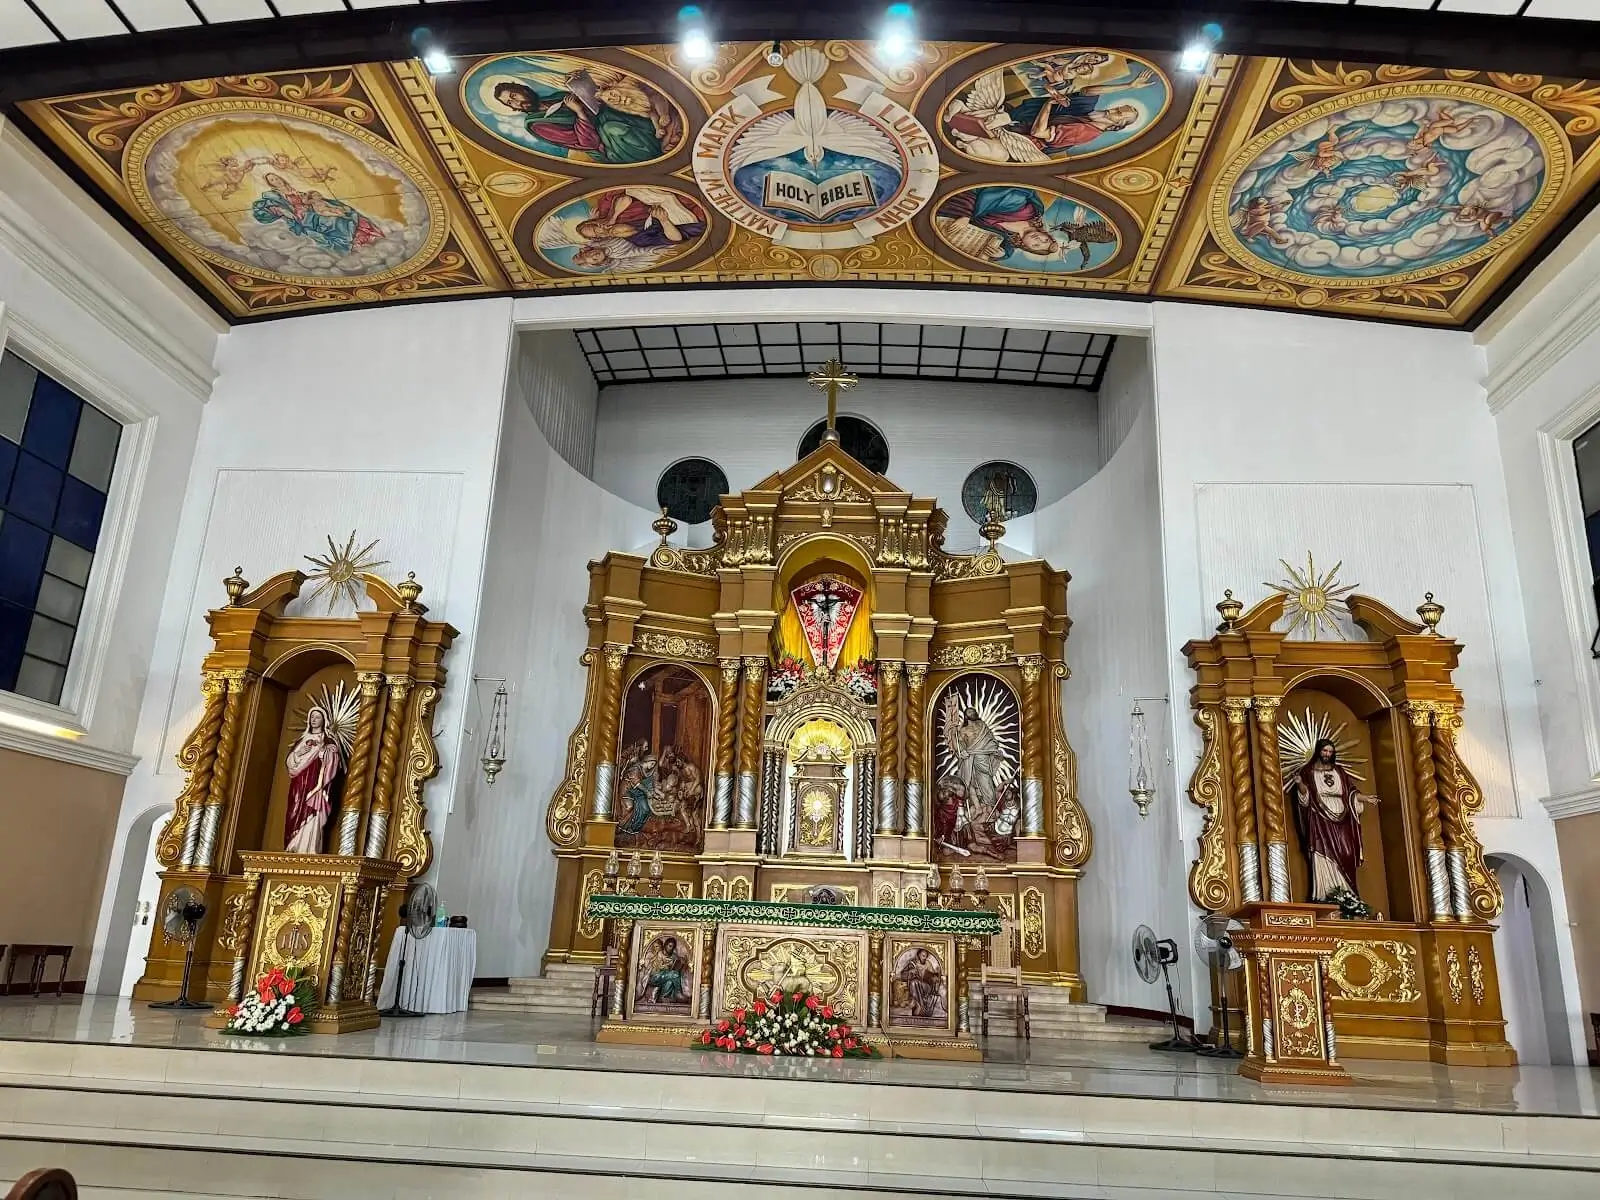
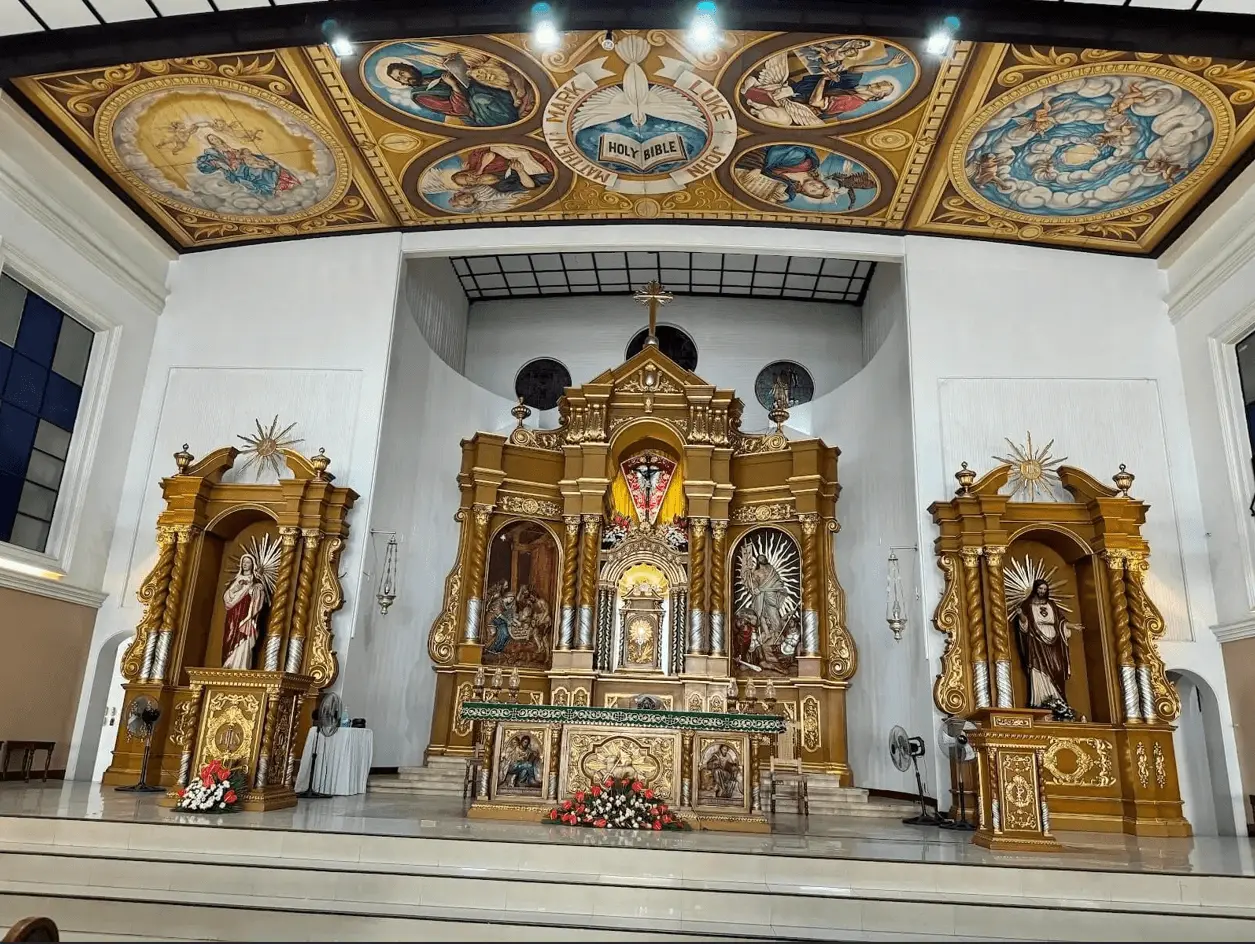
optimized v2

diff --git a/assets/js/script.js b/assets/js/script.js
@@ -59,9 +59,9 @@ document.addEventListener("DOMContentLoaded", function () {
     return L.divIcon({
       className: "custom-div-icon",
       html: `<div class="icon-wrap" style="display: flex; flex-direction: column; align-items: center;">
-               <img src="${imgUrl}" alt="image" style="width:50px;height:50px;border-radius:50%;border:2px solid white; box-shadow: 0 2px 5px rgba(0,0,0,0.3);">
-               <div class="pin-text" style="background:white;padding:2px 5px;border-radius:5px;font-size:10px;margin-top:2px; font-weight: bold; white-space: nowrap;">${text}</div>
-             </div>`,
+              <img src="${imgUrl}" alt="image" style="width:50px;height:50px;border-radius:50%;border:2px solid white; box-shadow: 0 2px 5px rgba(0,0,0,0.3);">
+              <div class="pin-text" style="background:white;padding:2px 5px;border-radius:5px;font-size:10px;margin-top:2px; font-weight: bold; white-space: nowrap;">${text}</div>
+            </div>`,
       iconSize: [60, 70], // Matches the size of your wrapping div
       iconAnchor: [30, 50], // Centers the icon horizontally and anchors the bottom
     });
@@ -73,7 +73,7 @@ document.addEventListener("DOMContentLoaded", function () {
 
   // 3. Add Church Marker
   var churchMarker = L.marker(churchCoords, {
-    icon: createCustomIcon("Church", "/assets/img2/Church.webp"),
+    icon: createCustomIcon("Church", "/assets/img2/church.webp"),
   })
     .addTo(map)
     .on("click", function () {